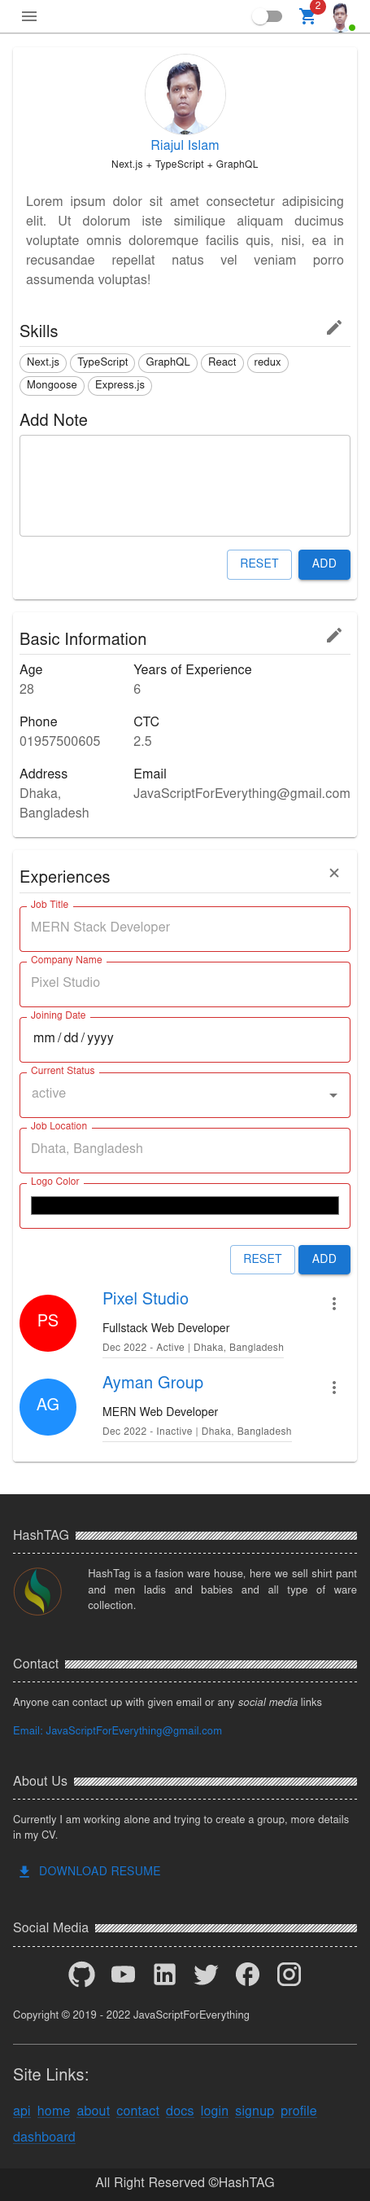
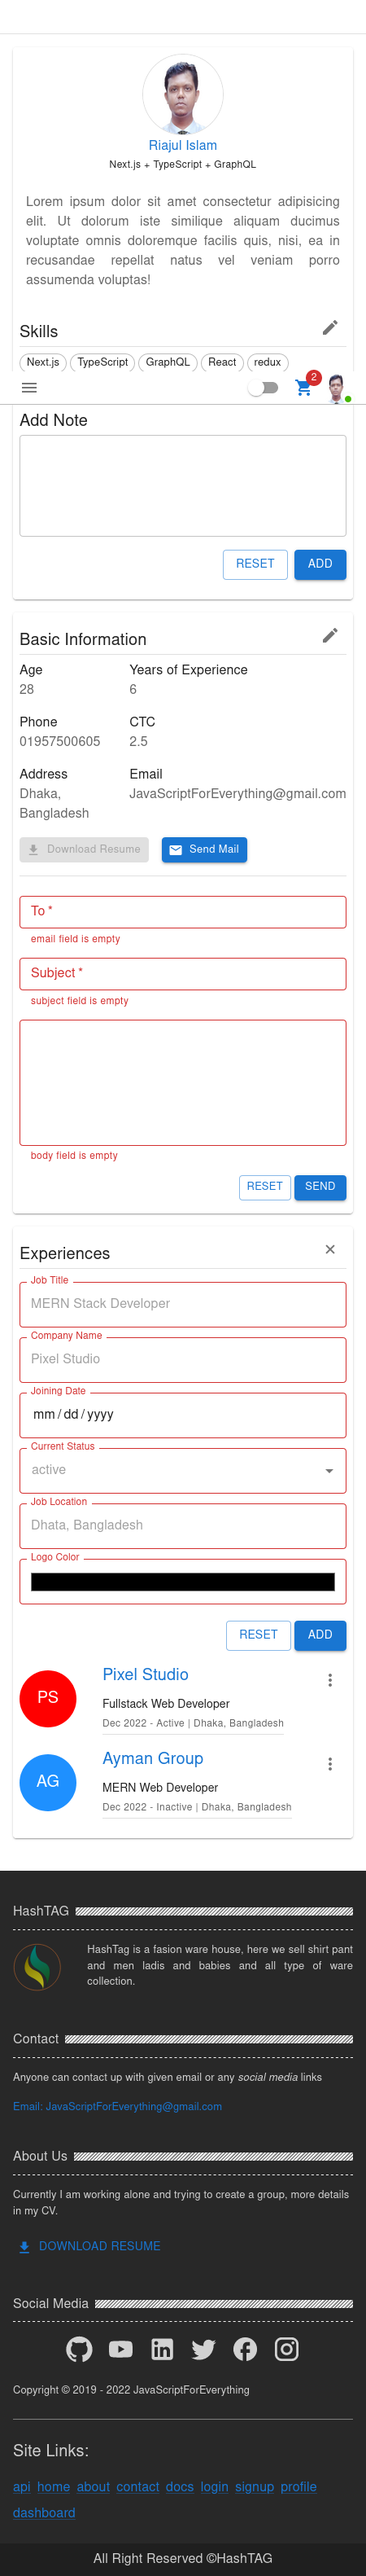
add resume download and send email in profile page

diff --git a/components/user/profile/sendMailForm.tsx b/components/user/profile/sendMailForm.tsx
@@ -1,0 +1,151 @@
+import { useEffect, useState } from 'react'
+
+import Box from '@mui/material/Box'
+import TextField from '@mui/material/TextField'
+import Button from '@mui/material/Button'
+import CircularProgress from '@mui/material/CircularProgress'
+import isEmail from 'validator/lib/isEmail'
+
+const inputItems = [
+	{
+		label: 'To',
+		placeholder: 'abc@gmail.com',
+		name: 'email',
+		type: 'email',
+		haveBlur: true,
+		rows: 1
+	},
+	{
+		label: 'Subject',
+		placeholder: 'subject',
+		name: 'subject',
+		type: 'subject',
+		haveBlur: false,
+		rows: 1
+	},
+	{
+		label: '',
+		placeholder: '',
+		name: 'body',
+		type: 'body',
+		haveBlur: false,
+		rows: 6
+	},
+]
+
+type InitialFields = {
+	email: string,
+	subject: string,
+	body: string,
+}
+const initialFields: InitialFields = {
+	email: '',
+	subject: '',
+	body: ''
+}
+
+type TempObj = {
+	[key: string]: string
+}
+export type MyImage = {
+	name: string,
+	size: string,
+	url: string
+}
+export type FieldsProps = {
+	coverPhoto: MyImage,
+	images: MyImage[]
+}
+
+const isFormValidate = (fields: InitialFields, setFieldsError: React.Dispatch<React.SetStateAction<TempObj>>): boolean => {
+	const tempObj: TempObj = {}
+
+	if(fields.email && !isEmail(fields.email)) tempObj['email'] = 'in valid email'
+
+	Object.entries(fields).forEach(([key, value]) => {
+		if(typeof value === 'string' && !value.trim()) return tempObj[key] = `${key} field is empty`
+	})
+
+	setFieldsError(tempObj)
+	return Object.values(tempObj).every( field => !field)
+}
+
+
+
+
+export const SendMailForm = () => {
+	const [ fields, setFields ] = useState<InitialFields>(initialFields)
+	const [ fieldsError, setFieldsError ] = useState<TempObj>(initialFields)
+
+	const [ loading, setLoading ] = useState(false)
+
+	useEffect(() => {
+		isFormValidate(fields, setFieldsError)
+	}, [fields])
+
+	const changeHandler = (field: keyof typeof fields) => (evt: React.ChangeEvent<HTMLInputElement>) => {
+		setFields({ ...fields, [field]: evt.target.value })
+	}
+
+	const resetHandler = () => {
+		setFields(initialFields)
+	}
+	const submitHandler = () => {
+		if( !isFormValidate(fields, setFieldsError) ) return console.log('invalid')
+
+		setLoading(true)
+
+		setTimeout(() => {
+			setLoading(false)
+			console.log(fields)	
+			setFields(initialFields)
+		}, 1000);
+	}
+
+	return (
+		<Box>
+
+				{inputItems.map(({ label, placeholder, type, name, haveBlur, rows }) => (
+					<TextField key={name}
+						label={label }
+						placeholder={placeholder}
+						type={type}
+						required
+						fullWidth
+						margin='dense'
+						size='small'
+						value={fields[name as keyof typeof fields]}
+						onChange={changeHandler(name as keyof typeof fields)}
+
+						multiline
+						rows={rows}
+
+						error={!fields[name as keyof typeof fields] || !!fieldsError[name as keyof typeof fieldsError]}
+						helperText={fieldsError[name as keyof typeof fieldsError]}
+					/>
+				))}
+
+			<Box sx={{
+				mt: 1,
+				display: 'flex',
+				justifyContent: 'flex-end',
+				gap: .5,
+			}}>
+					<Button 
+						variant='outlined'
+						size='small'
+						onClick={resetHandler}
+					>Reset</Button>
+
+					<Button 
+						variant='contained'
+						size='small'
+						onClick={submitHandler}
+					>
+						{loading ? <CircularProgress size={24} color='inherit' /> : 'Send' }
+					</Button>
+			</Box>
+
+		</Box>
+	)
+}

diff --git a/pages/user/profile.tsx b/pages/user/profile.tsx
@@ -15,9 +15,14 @@ import Grid from '@mui/material/Grid'
 import Box from '@mui/material/Box'
 import Paper from '@mui/material/Paper'
 import Typography from '@mui/material/Typography'
+import Button from '@mui/material/Button'
 import Chip from '@mui/material/Chip'
+import Divider from '@mui/material/Divider'
 
 import AddIcon from '@mui/icons-material/Add'
+import DownloadIcon from '@mui/icons-material/Download'
+import MailIcon from '@mui/icons-material/Mail'
+import { SendMailForm } from '@/components/user/profile'
 
 
 const skills = [ 'Next.js', 'TypeScript', 'GraphQL', 'React', 'redux', 'Mongoose', 'Express.js' ]
@@ -52,11 +57,19 @@ const experiences: Experience[] = [
 
 const Profile = ({ session }: InferGetServerSidePropsType<typeof getServerSideProps>) => {
 	const [ isAdded, setIsAdded ] = useState(false)
+	const [ isSendMail, setIsSendMail ] = useState(false)
 
 	// const { user } = useAppSelector(state => state.user)
 	// console.log(user)
 
-	console.log({ session })
+	// console.log({ session })
+	const user = {
+		resume: ''
+	}
+
+	const toggleMailForm = () => {
+		setIsSendMail(!isSendMail)
+	}
 
 	return (
 		<>
@@ -104,6 +117,41 @@ const Profile = ({ session }: InferGetServerSidePropsType<typeof getServerSidePr
 									</Box>
 								))}
 							</Box>
+
+							<Box sx={{
+								display: 'flex',
+								gap: 2,
+								mt: 2
+							}}>
+								<Button
+									variant='contained'
+									startIcon={<DownloadIcon />}
+									disabled={!user.resume}
+									size='small'
+									sx={{ textTransform: 'capitalize' }}
+
+									component='a' href={user.resume} download='resume.pdf'
+								>Download Resume</Button>
+
+								<Button
+									variant={isSendMail ? 'contained' : 'outlined' }
+									startIcon={<MailIcon />}
+									size='small'
+									sx={{ textTransform: 'capitalize' }}
+									onClick={toggleMailForm}
+								>Send Mail</Button>
+							</Box>
+
+							{isSendMail && (
+								<>
+									<Divider sx={{ my: 2 }} />
+									<Box >
+										<SendMailForm />
+									</Box>
+								</>
+							)}
+						
+
 						</Section>
 					</Paper>
 

diff --git a/components/user/dashboard/page/products/productTable.tsx b/components/user/dashboard/page/products/productTable.tsx
@@ -68,8 +68,13 @@ export const ProductTable = () => {
 
 			<Typography color='primary' paragraph variant='h6'>All Products</Typography>			
 
-			<TableContainer component={Paper}>
-				<Table size='small' >
+			<TableContainer component={Paper}
+					sx={{
+						maxWidth: { xs: 600, sm: '100%' }
+					}}
+			>
+				<Table size='small' 
+				>
 					<TableHead>
 						<TableRow sx={(theme) => ({
 								backgroundColor: theme.palette.primary.main,

diff --git a/components/user/profile/index.ts b/components/user/profile/index.ts
@@ -3,3 +3,5 @@ export * from './userSummary'
 export * from './sectionHeading'
 export * from './userExperience'
 export * from './addExperience'
+export * from './addExperience'
+export * from './sendMailForm'
